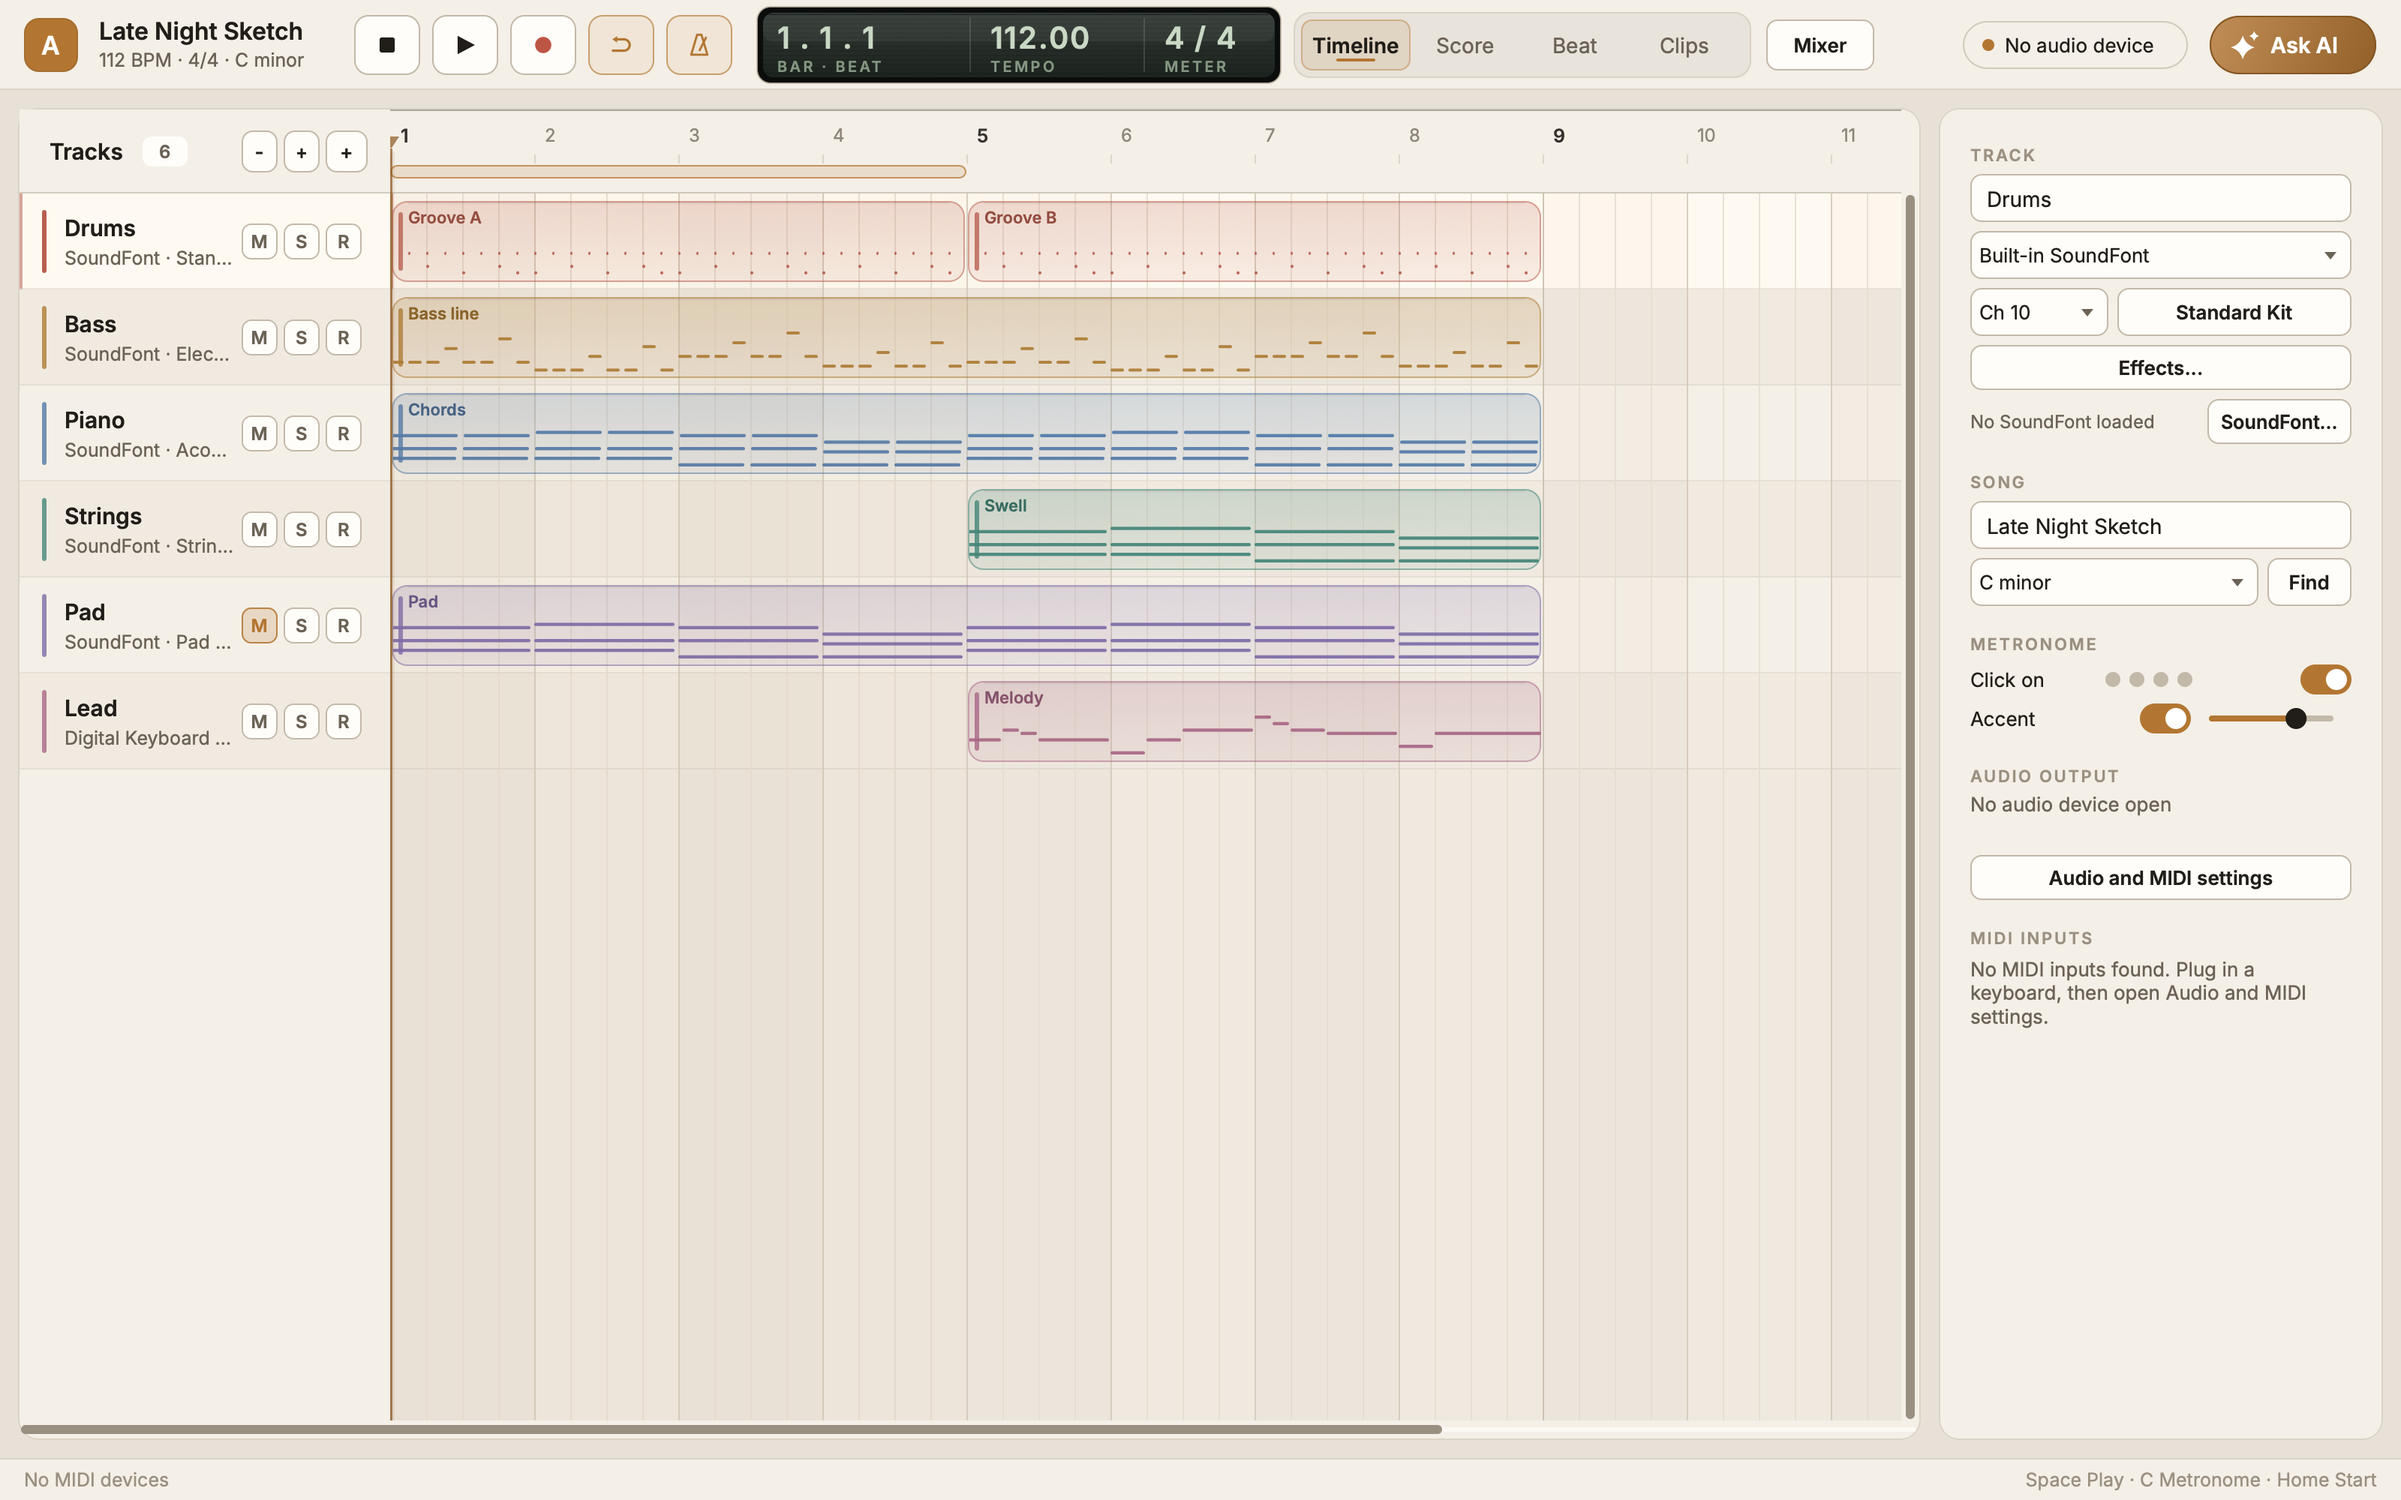
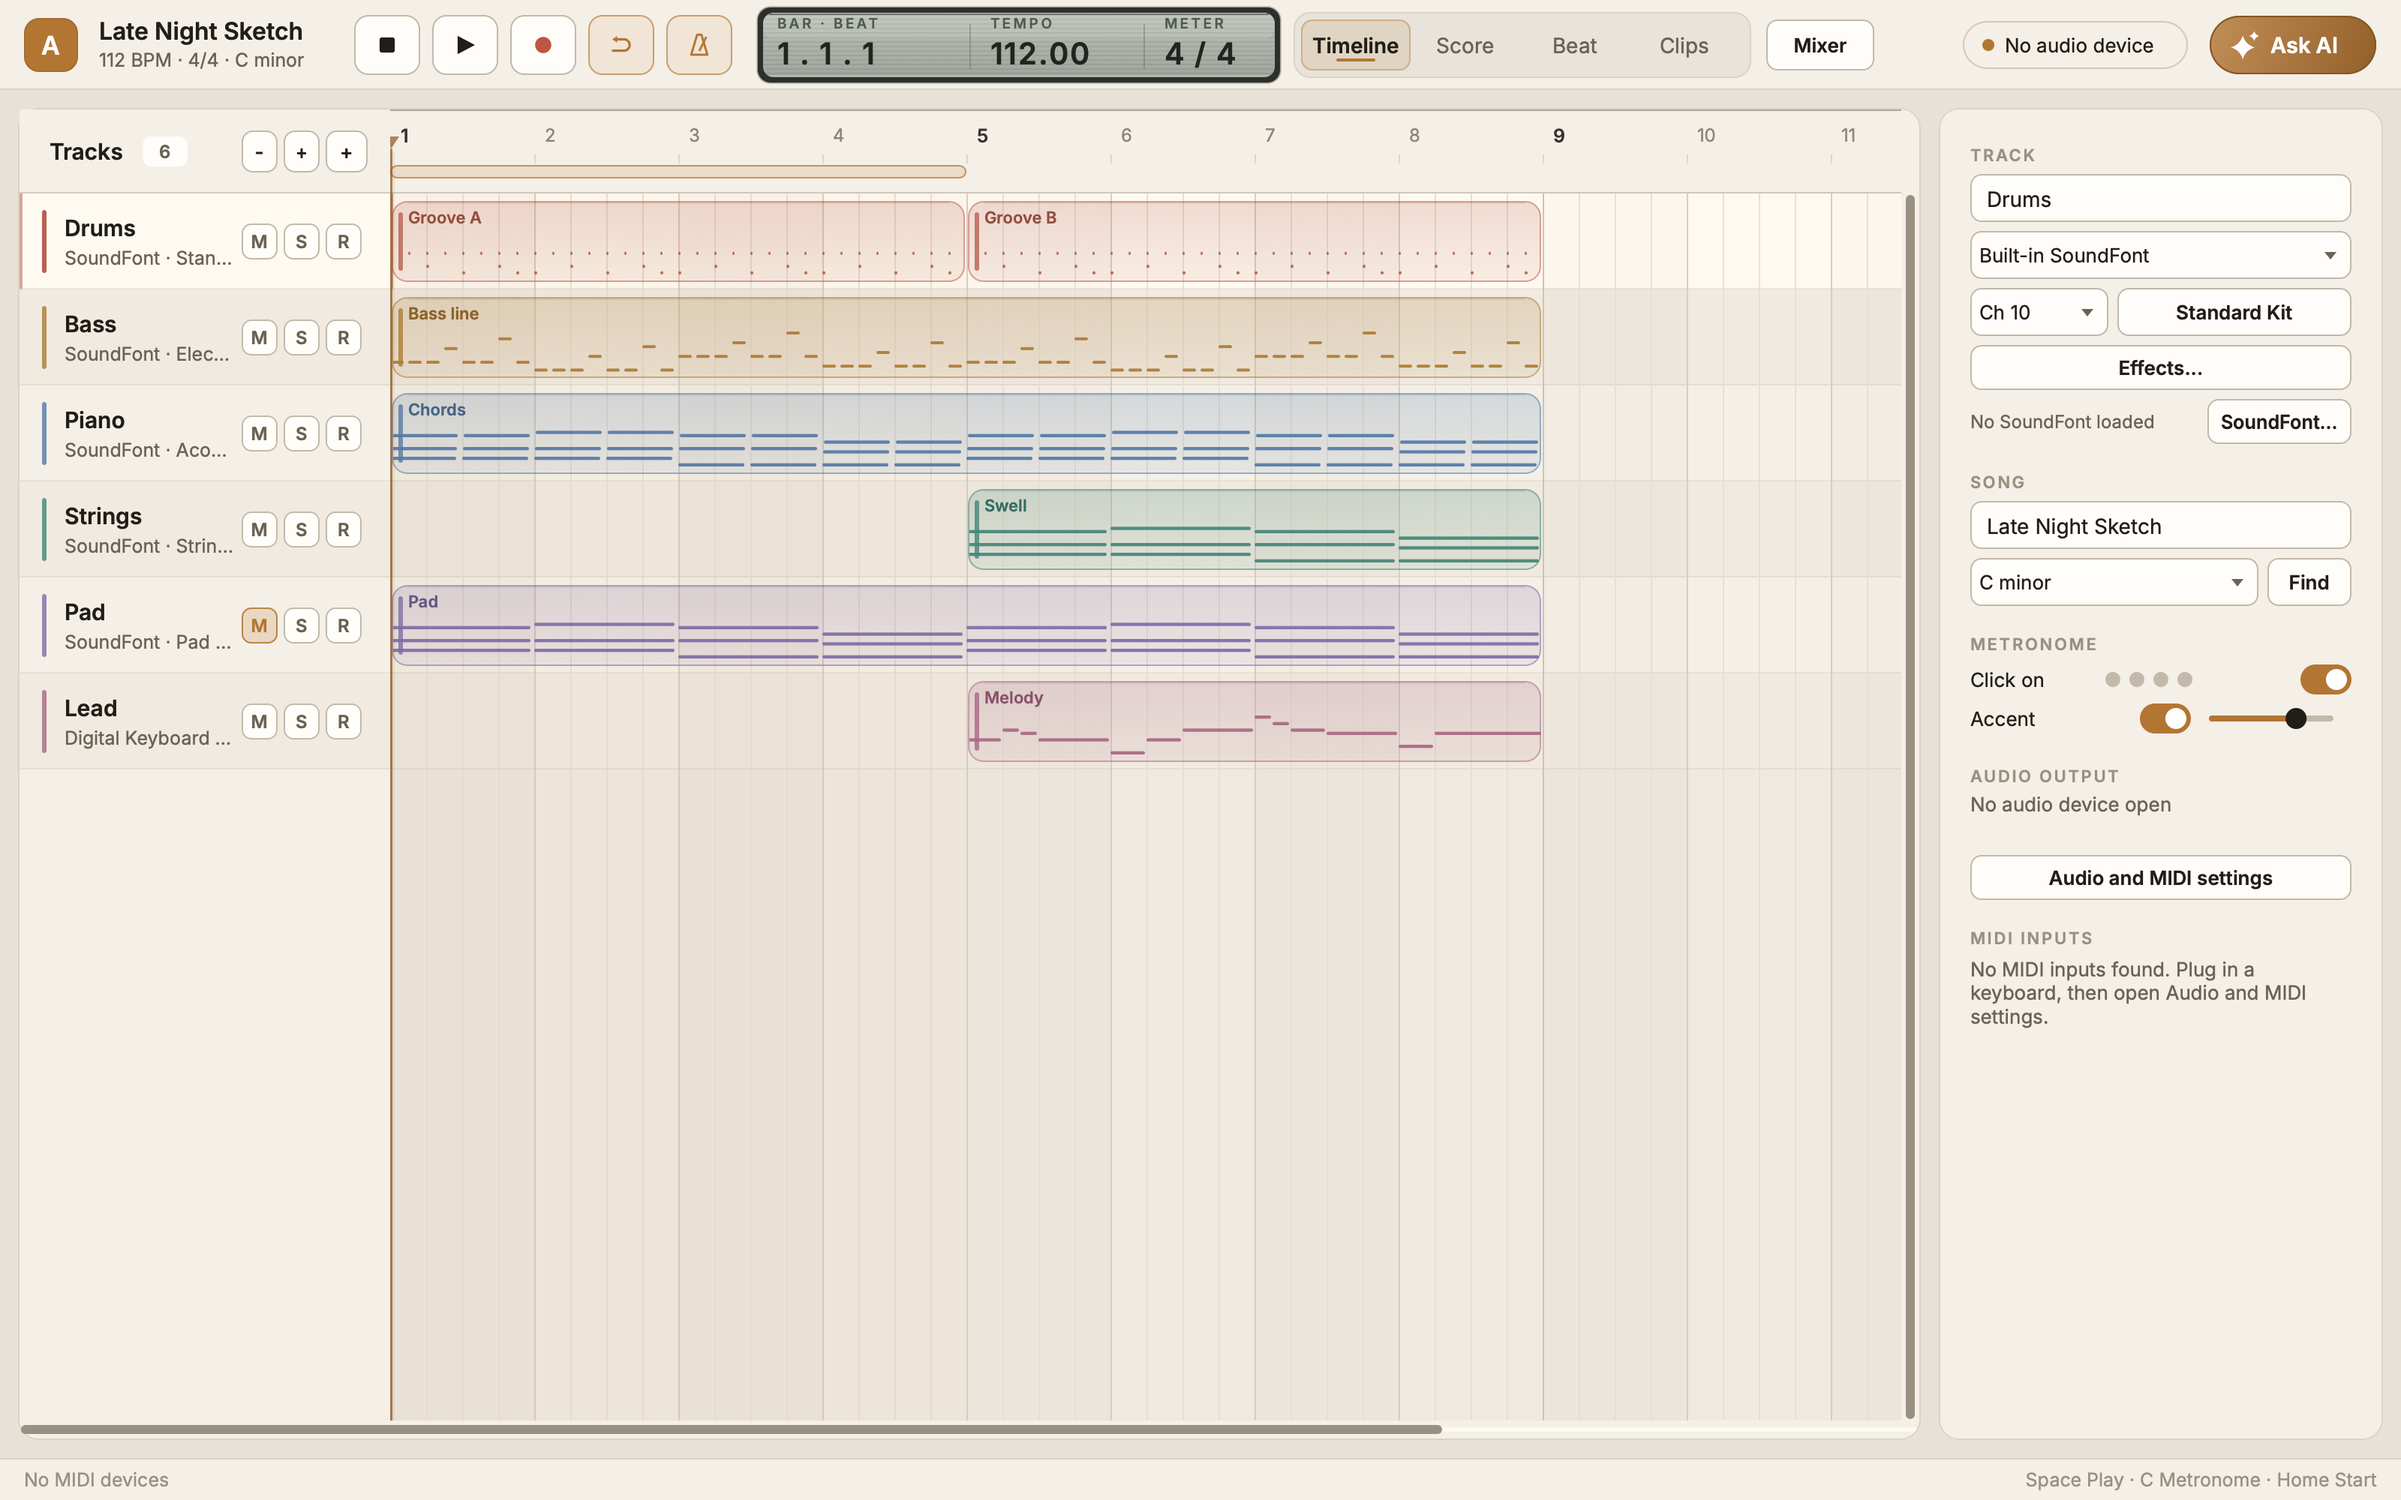
Match the LCD and fader references

Changed region(s): [[0.3125, 0.0, 0.5312, 0.062]]

diff --git a/src/app/ui/MixerView.cpp b/src/app/ui/MixerView.cpp
@@ -187,7 +187,7 @@ public:
             else if (knobArea (1).expanded (4.0f).contains (p)) active = Part::chorus;
             else if (panArea().expanded (4.0f).contains (p)) active = Part::pan;
         }
-        if (faderArea().expanded (16.0f, 12.0f).contains (p))
+        if (faderArea().expanded (16.0f, 16.0f).contains (p))
         {
             active = Part::fader;
             // Click beside the cap jumps; grabbing the cap keeps the offset.
@@ -230,7 +230,7 @@ public:
         const auto p = e.position;
         if (track == 0)
         {
-            if (faderArea().expanded (16.0f, 12.0f).contains (p))
+            if (faderArea().expanded (16.0f, 16.0f).contains (p))
                 session.edit ("Reset Master", [] (Song& s) { s.master.gainDb = 0.0f; });
             return;
         }
@@ -240,14 +240,14 @@ public:
                 rename();
             else if (panArea().contains (p))
                 setValue (Part::pan, 64, "reset");
-            else if (faderArea().expanded (16.0f, 12.0f).contains (p))
+            else if (faderArea().expanded (16.0f, 16.0f).contains (p))
                 setValue (Part::fader, 100, "reset");
             return;
         }
         if (knobArea (0).contains (p)) setValue (Part::reverb, 40, "reset");
         else if (knobArea (1).contains (p)) setValue (Part::chorus, 0, "reset");
         else if (panArea().contains (p)) setValue (Part::pan, 64, "reset");
-        else if (faderArea().expanded (16.0f, 12.0f).contains (p)) setValue (Part::fader, 100, "reset");
+        else if (faderArea().expanded (16.0f, 16.0f).contains (p)) setValue (Part::fader, 100, "reset");
     }
 
     void mouseWheelMove (const juce::MouseEvent& e, const juce::MouseWheelDetails& w) override
@@ -258,7 +258,7 @@ public:
         if (track != 0 && ! isBus() && knobArea (0).contains (p)) part = Part::reverb;
         else if (track != 0 && ! isBus() && knobArea (1).contains (p)) part = Part::chorus;
         else if (track != 0 && panArea().contains (p)) part = Part::pan;
-        else if (faderArea().expanded (16.0f, 12.0f).contains (p)) part = Part::fader;
+        else if (faderArea().expanded (16.0f, 16.0f).contains (p)) part = Part::fader;
         if (part == Part::none)
         {
             Component::mouseWheelMove (e, w);
@@ -364,27 +364,33 @@ private:
             g.drawText (juce::String (juce::roundToInt (db)), juce::Rectangle<float> (fader.getX() - 26.0f, y - 6.0f, 22.0f, 12.0f), juce::Justification::centredRight, false);
         }
 
-        const auto cap = juce::Rectangle<float> (fader.getCentreX() - 17.0f, capY - 11.0f, 34.0f, 22.0f);
-        g.setColour (juce::Colours::black.withAlpha (0.45f));
-        g.fillRoundedRectangle (cap.translated (0.0f, 2.5f), 5.0f);
+        const auto cap = juce::Rectangle<float> (fader.getCentreX() - 15.0f, capY - 14.0f, 30.0f, 28.0f);
+        g.setColour (juce::Colours::black.withAlpha (0.50f));
+        g.fillRoundedRectangle (cap.translated (0.0f, 3.0f), 5.0f);
 
         juce::ColourGradient metal (t.colour ("faderFaceTop"), cap.getX(), cap.getY(),
                                     t.colour ("faderFaceBottom"), cap.getX(), cap.getBottom(), false);
+        metal.addColour (0.55, t.colour ("faderFaceTop").interpolatedWith (t.colour ("faderFaceBottom"), 0.45f));
         g.setGradientFill (metal);
         g.fillRoundedRectangle (cap, 5.0f);
 
         g.setColour (t.colour ("faderEdge"));
         g.drawRoundedRectangle (cap.reduced (0.5f), 5.0f, 1.0f);
-        g.setColour (t.colour ("faderLine").withAlpha (0.55f));
-        g.fillRoundedRectangle (cap.withHeight (1.0f).reduced (5.0f, 0.0f), 0.5f);
+        g.setColour (juce::Colours::white.withAlpha (0.85f));
+        g.fillRoundedRectangle (cap.withHeight (1.5f).reduced (6.0f, 0.0f), 0.75f);
         g.setColour (juce::Colours::black.withAlpha (0.35f));
         g.fillRect (cap.getX() + 3.0f, cap.getBottom() - 2.0f, cap.getWidth() - 6.0f, 1.0f);
 
-        // The centre groove makes the cap look milled from one piece of metal.
-        g.setColour (t.colour ("faderEdge").withAlpha (0.85f));
-        g.fillRoundedRectangle (juce::Rectangle<float> (cap.getX() + 6.0f, cap.getCentreY() - 1.0f, cap.getWidth() - 12.0f, 2.0f), 1.0f);
-        g.setColour (t.colour ("faderLine").withAlpha (0.28f));
-        g.fillRect (cap.getX() + 7.0f, cap.getCentreY() + 1.0f, cap.getWidth() - 14.0f, 1.0f);
+        // The dark groove splits the bright metal face, like a machined fader cap.
+        const float grooveY = cap.getY() + cap.getHeight() * 0.58f;
+        g.setColour (t.colour ("faderEdge").withAlpha (0.9f));
+        g.fillRoundedRectangle (juce::Rectangle<float> (cap.getX() + 4.0f, grooveY, cap.getWidth() - 8.0f, 2.5f), 1.25f);
+        g.setColour (juce::Colours::white.withAlpha (0.65f));
+        g.fillRect (cap.getX() + 5.0f, grooveY + 2.5f, cap.getWidth() - 10.0f, 1.0f);
+        g.setColour (juce::Colours::white.withAlpha (0.16f));
+        g.fillRect (cap.getX() + 5.0f, cap.getY() + 3.0f, 1.0f, cap.getHeight() - 8.0f);
+        g.setColour (juce::Colours::black.withAlpha (0.18f));
+        g.fillRect (cap.getRight() - 5.0f, cap.getY() + 3.0f, 1.0f, cap.getHeight() - 8.0f);
 
         drawMeter (g);
     }

diff --git a/src/app/ui/HeaderBar.cpp b/src/app/ui/HeaderBar.cpp
@@ -129,23 +129,25 @@ void LcdDisplay::paint (juce::Graphics& g)
     g.setColour (t.colour ("lineStrong").withAlpha (0.8f));
     g.drawRoundedRectangle (outer, radius, 1.0f);
 
-    juce::ColourGradient glass (t.colour ("lcdBack").brighter (0.07f), screen.getX(), screen.getY(),
-                                t.colour ("lcdBack").darker (0.20f), screen.getX(), screen.getBottom(), false);
+    juce::ColourGradient glass (t.colour ("lcdBack").brighter (0.05f), screen.getX(), screen.getY(),
+                                t.colour ("lcdBack").darker (0.14f), screen.getX(), screen.getBottom(), false);
     g.setGradientFill (glass);
     g.fillRoundedRectangle (screen, radius - 2.0f);
 
     g.saveState();
     g.reduceClipRegion (screen.toNearestInt());
     // Fine horizontal lines and a soft top highlight give the display its glass look.
-    g.setColour (juce::Colours::black.withAlpha (t.isDark ? 0.16f : 0.10f));
+    g.setColour (juce::Colours::black.withAlpha (0.07f));
     for (float y = screen.getY() + 1.0f; y < screen.getBottom(); y += 3.0f)
         g.fillRect (juce::Rectangle<float> (screen.getX(), y, screen.getWidth(), 1.0f));
-    g.setColour (juce::Colours::white.withAlpha (t.isDark ? 0.035f : 0.05f));
-    g.fillRoundedRectangle (screen.withHeight (screen.getHeight() * 0.45f), radius - 2.0f);
+    g.setColour (juce::Colours::white.withAlpha (0.11f));
+    g.fillRoundedRectangle (screen.withHeight (screen.getHeight() * 0.40f), radius - 2.0f);
     g.restoreState();
 
-    g.setColour (juce::Colours::black.withAlpha (0.35f));
+    g.setColour (juce::Colours::black.withAlpha (0.42f));
     g.drawHorizontalLine (juce::roundToInt (screen.getY() + 0.5f), screen.getX() + 4.0f, screen.getRight() - 4.0f);
+    g.setColour (juce::Colours::white.withAlpha (0.22f));
+    g.drawHorizontalLine (juce::roundToInt (screen.getBottom() - 1.5f), screen.getX() + 4.0f, screen.getRight() - 4.0f);
 
     const auto bb = toBarBeat (static_cast<Tick> (position), meter);
     const juce::String values[] = {
@@ -160,16 +162,17 @@ void LcdDisplay::paint (juce::Graphics& g)
         auto c = cell (i);
         if (i > 0)
         {
-            g.setColour (t.colour ("lcdDim").withAlpha (0.28f));
-            g.fillRect (c.getX(), 8, 1, getHeight() - 16);
+            g.setColour (t.colour ("lcdDim").withAlpha (0.35f));
+            g.fillRect (c.getX(), 12, 1, getHeight() - 22);
         }
-        c = c.reduced (14, 7);
+        c = c.reduced (14, 6);
+        auto label = c.removeFromTop (11);
+        g.setColour (t.colour ("lcdDim"));
+        g.setFont (t.font (9.5f, true).withExtraKerningFactor (0.15f));
+        g.drawText (juce::String::fromUTF8 (labels[i]), label, juce::Justification::centredLeft);
         g.setColour (t.colour ("lcdInk"));
         g.setFont (t.font (20.0f, true).withExtraKerningFactor (0.04f));
-        g.drawText (values[i], c.removeFromTop (28), juce::Justification::centredLeft);
-        g.setColour (t.colour ("lcdDim"));
-        g.setFont (t.font (10.0f, true).withExtraKerningFactor (0.14f));
-        g.drawText (juce::String::fromUTF8 (labels[i]), c, juce::Justification::centredLeft);
+        g.drawText (values[i], c, juce::Justification::centredLeft);
     }
 }
 

diff --git a/docs/style-guide.md b/docs/style-guide.md
@@ -29,10 +29,10 @@ The look of Arranger MIDI DAW: a warm charcoal studio with a copper accent, mode
 | `recording` | `#dc7a6b` | Record button |
 | `ok` / `warning` | `#91ad7c` / `#dca45f` | Device status dots |
 | `lcd` / `lcdText` | `#07090a` / `#f1ece4` | Dark display surfaces and their fallback text |
-| `lcdBack` / `lcdInk` / `lcdDim` | `#1b241f` / `#c6d6c1` / `#81927f` | Grey-green LCD glass, digits and labels |
-| `lcdBezel` | `#080a09` | LCD frame |
-| `faderFaceTop` / `faderFaceBottom` | `#6f757b` / `#2e3236` | Dark silver fader cap |
-| `faderEdge` / `faderLine` | `#080a0b` / `#9aa0a6` | Fader slot and metal highlights |
+| `lcdBack` / `lcdInk` / `lcdDim` | `#b3bbb0` / `#1d241d` / `#4d574d` | Grey-green LCD glass, digits and labels |
+| `lcdBezel` | `#2a2e2b` | LCD frame |
+| `faderFaceTop` / `faderFaceBottom` | `#f4f4f1` / `#a8adb1` | Polished silver fader cap |
+| `faderEdge` / `faderLine` | `#111315` / `#f7f8f5` | Fader slot and metal highlights |
 | `timeline` / `lane` / `laneAlt` | `#0a0c0e` / `#101316` / `#13171a` | Timeline canvas and alternating track lanes |
 | `laneSelected` | `#1b2025` | Selected track lane |
 | `gridBar` / `gridBeat` | `#2b3138` / `#1d2227` | Bar and beat lines |
